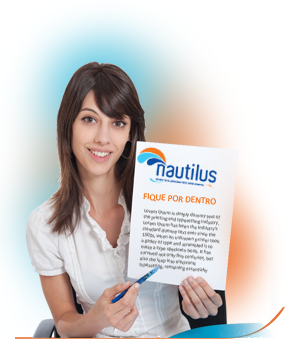
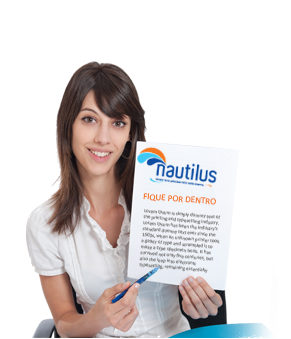
Ajustes das Internas

diff --git a/public/stylesheets/internal.css b/public/stylesheets/internal.css
@@ -26,7 +26,7 @@ table, caption, tbody, tfoot, thead, tr, th, td {
 body {
 	line-height: 1;
 	color: black;
-	background: white;
+	background: #f9ffff;
 }
 ol, ul {
 	list-style: none;
@@ -87,7 +87,7 @@ body
 	background-position:top center;		
 	width:100%;
 	height:100%;
-	background-color:#6cc6e4;;
+	background-color:#f9ffff;
 }
 #GeneralbgFooter
 {
@@ -388,11 +388,7 @@ body
 	}	
 		#Content_bgrepeat
 		{
-			background-image:url(../images/bg_contentrepeat.png);
-			background-repeat:no-repeat;
-			background-position:-5px 452px;
-			*background-position:-5px 452px; /*ie7*/
-			background-position /*\**/:-4px 452px\9; /*ie8*/
+			
 			margin-top:0px;
 			position:relative;
 			display:inline-block;
@@ -404,9 +400,7 @@ body
 		}											
 		#Content
 		{
-			background-image:url(../images/bg_contenttop.png);
-			background-repeat:no-repeat;
-			background-position:center top;
+			
 			position:relative;
 			width:100%;
 			min-height:452px;
@@ -601,7 +595,7 @@ body
 	#Footer
 	{
 		font-family:Verdana, Geneva, sans-serif;
-		color:#0066cc;
+		color:#e56f2e;
 		font-size:12px;
 		position:relative;
 		width:100%;
@@ -618,9 +612,6 @@ body
 		#Footer_content
 		{
 			z-index:0;
-			background-image:url(../images/bg_footerinternal.png);
-			background-repeat:no-repeat;
-			background-position:center top;
 			position:relative;
 			width:960px;
 			min-height:460px;
@@ -658,7 +649,7 @@ body
 			#Footer_text1
 			{
 				font-family:Arial, Helvetica, sans-serif;
-				color:#cc6633;
+				color:#e56f2e;
 				font-size:12px;
 				position:relative;
 				width:500px;

diff --git a/public/stylesheets/internalbig.css b/public/stylesheets/internalbig.css
@@ -1,10 +1,5 @@
 #Content_bgrepeat
   {
-    background-image:url(../images/bg_contentrepeat.png);
-	background-repeat:no-repeat;
-	background-position:-5px 447px;
-	*background-position:-5px 447px; /*ie7*/
-	background-position /*\**/:-4px 447px\9; /*ie8*/
 	position:relative;
 	display:inline-block;
 	width:100%;
@@ -16,9 +11,6 @@
   
 #Content
   {
-	background-image:url(../images/bg_contenttop.png);
-	background-repeat:no-repeat;
-	background-position:center top;
 	position:relative;
 	width:100%;
 	min-height:452px;

diff --git a/public/stylesheets/downloads.css b/public/stylesheets/downloads.css
@@ -1,8 +1,6 @@
 		#Content
 		{
-			background-image:url(../images/bg_contenttop.png);
-			background-repeat:no-repeat;
-			background-position:center top;
+			
 			position:relative;
 			width:100%;
 			height:459px !important;
@@ -47,12 +45,12 @@
 
 #Image_internal_downloads
   {
-    width:277px !important;
-	height:500px;
+    width:215px !important;
+	height:215px;
 	z-index:100;
 	position:absolute;
 	left:6px;
-	top:100px !important;
+	margin-top:-215px;
   }
 
 .sem_fundo{

diff --git a/public/stylesheets/atendimento.css b/public/stylesheets/atendimento.css
@@ -5,7 +5,7 @@
     width:277px;
 	z-index:10;
 	position:absolute;
-	margin-top:-350px;
+	margin-top:-340px;
 	margin-left:9px;
 	}
 	
@@ -57,3 +57,6 @@
 	margin-top:100px;
 	text-align:center;
 }
+#Img_Linha{
+	margin-top:
+	}

diff --git a/public/stylesheets/template.css b/public/stylesheets/template.css
@@ -76,7 +76,7 @@ body
 	background-position:top center;		
 	width:100%;
 	height:100%;
-	background-color:#6cc6e4;
+	background-color:#f9ffff;
 }
 #GeneralbgFooter
 {

diff --git a/public/stylesheets/linhas.css b/public/stylesheets/linhas.css
@@ -98,4 +98,5 @@
     background-image:url(../images/bt_produtos.png);
 	background-repeat:no-repeat;
 	background-position: top center;
+	color:#c85200;
 }

diff --git a/public/stylesheets/noticias.css b/public/stylesheets/noticias.css
@@ -29,7 +29,7 @@ span{
     width:277px;
 	z-index:10;
 	position:absolute;
-	margin-top:-350px;					
+	margin-top:-340px;					
 	margin-left:-6px;
 	}
 

diff --git a/public/stylesheets/videos.css b/public/stylesheets/videos.css
@@ -60,3 +60,11 @@ span{
 {
 	float:none!important;
 }
+
+#Img_Linha{
+	margin-bottom:-74px;
+	}
+
+#Img_Linha_H{
+	margin-top:71px;
+	}
